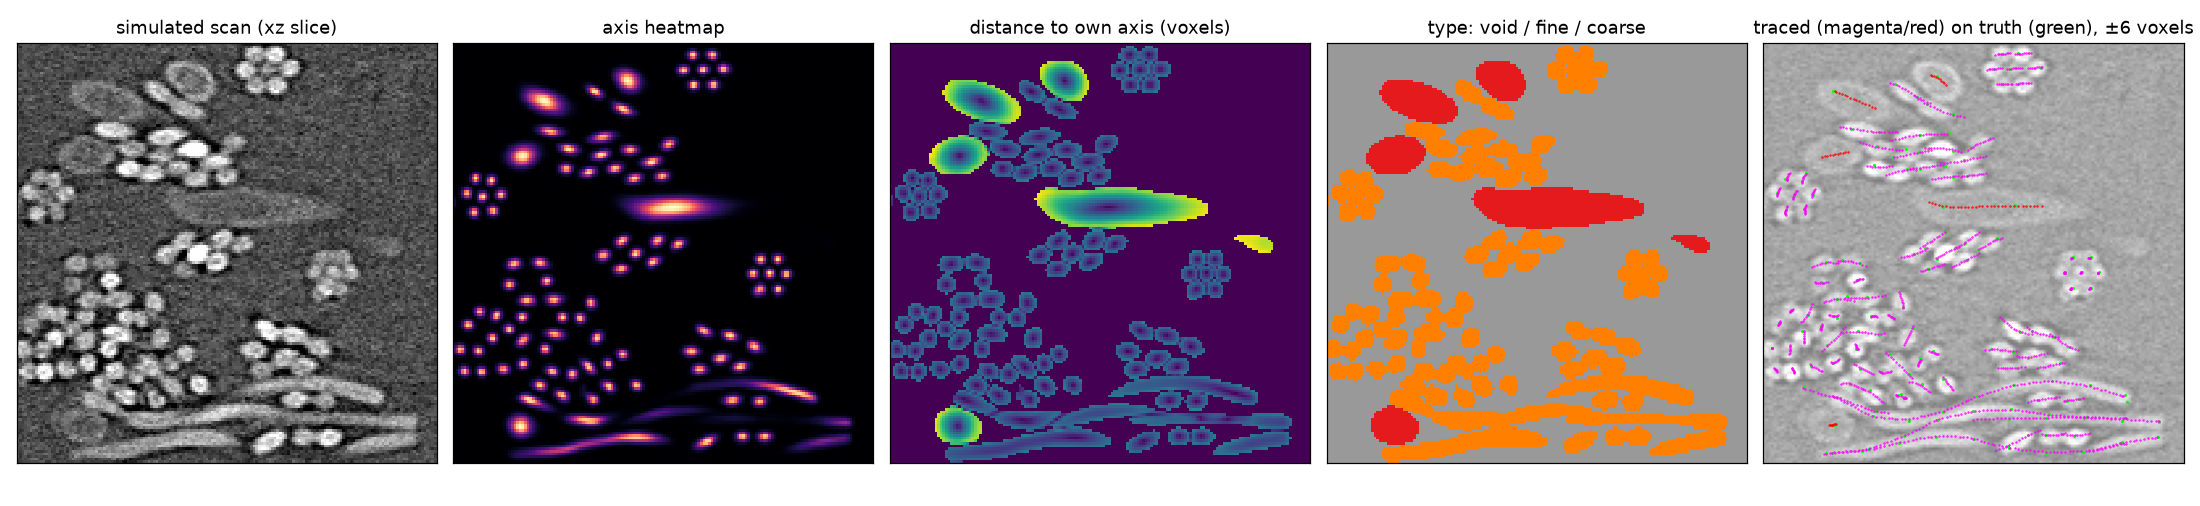
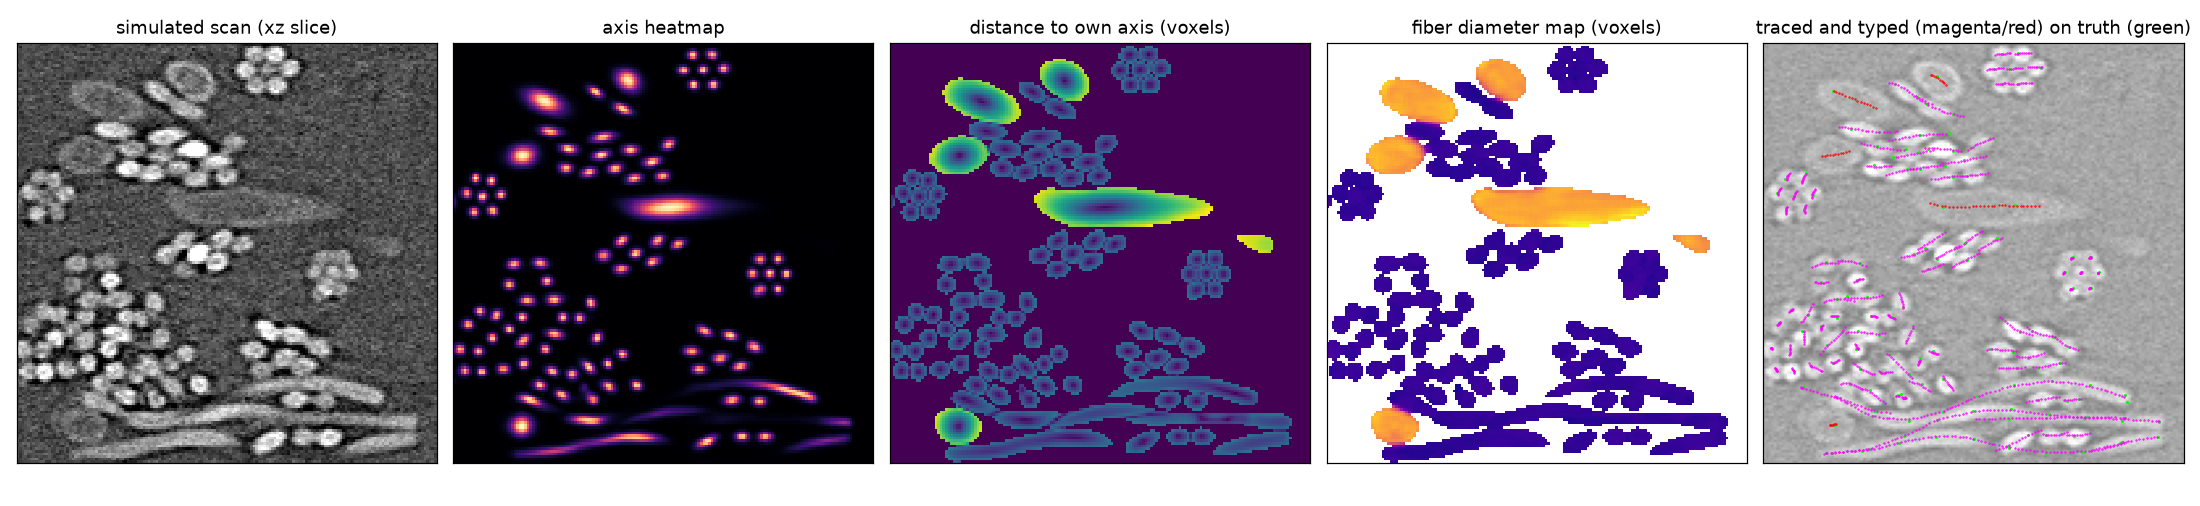
docs: CT map network guide for the general network (per-fiber types, radius, binder and bond points, size and bond hints, training sets); new maps figure

diff --git a/docs/ct_unet.md b/docs/ct_unet.md
@@ -14,8 +14,9 @@ matplotlib.
 ![One simulated scan, the network's maps and the traced fibers](media/ct-unet-maps.png)
 
 *A slice of `dense_hard_7` (never seen in training). From left: the simulated
-scan; the axis heatmap; each fiber voxel's distance to its own axis; the fiber
-type; the traced centerlines (magenta fine, red coarse) over the true ones.*
+scan; the axis heatmap; each fiber voxel's distance to its own axis; the
+predicted fiber diameter; the traced centerlines, typed per fiber (magenta
+fine, red coarse), over the true ones.*
 
 ## Results on the simulated sets
 
@@ -32,9 +33,21 @@ The network scans a 160³ volume in about a second and the tracer takes a few
 seconds on the CPU. On `scanned_101`-`108` the weakest case (0.88) is a scan
 whose fine fibers are under 4 voxels across.
 
+**The general network** (any number of fiber types, any sizes; the table above
+is the first, two-type network). It knows nothing about types: it finds fibers
+and their diameters, and types are assigned per fiber afterwards. On a held-out
+set of 24 `varied` scans (1-4 fiber types of 3.5-28 voxels, mixed bundles,
+planar to fully 3D) it scores **0.84** on the scans whose thinnest fibers are
+resolvable, given the fiber sizes, and types **94%** of the traced length right;
+on `dense_hard` and `scanned` it keeps 0.99 and 0.98. Told whether a scan is
+bonded, it finds binder bonds with an F1 of 0.42 (validation) and 0.27 (test),
+and none in bond-free scans; on perfect maps the same bond finder reaches
+0.72-0.98, so the network, not the finder, is the limit there (thin menisci
+under the blur are the hardest shape).
+
 ## What the network predicts
 
-For every voxel, 13 numbers:
+For every voxel, 14 numbers:
 
 1. **Axis heatmap:** a peak on every fiber centerline, exp(-d²/2s²) with d the
    distance to the nearest axis and s = max(1, 0.3 r). It is kept sharp on
@@ -45,11 +58,27 @@ For every voxel, 13 numbers:
    so the boundary between them is explicit even where the grey shows no gap.
 3. **Direction** (6): the fiber's tangent as the sign-free tensor t tᵀ, so a
    fiber pointing +x and one pointing -x read the same.
-4. **Type** (3): void, fine, coarse.
+4. **Fiber:** fiber or void.
+5. **Radius:** the radius of the voxel's own fiber (predicted as its log).
+6. **Binder:** binder or not (bridges, menisci, blobs and coatings).
+7. **Bond points:** a small peak (1.5 voxels) at the center of every bond.
 
-The network is a plain 3D U-Net: four 2x poolings (128³ down to 8³, 16 to 256
-channels), two 3x3x3 convolutions with group norm per level, skip connections,
-and a 1x1 head. It has 5.6 M weights. Training crops are 128³; any volume whose
+There is no type output: types are decided per fiber after tracing (below), so
+one network handles any number of fiber types.
+
+**Hints.** The network can be told what is known about the sample, through a
+small code that scales and shifts the features after every block (FiLM; it
+starts as a no-op, so a trained network can be extended with it): the fiber
+diameters (a soft histogram of their logs), and whether the scan is bonded (and
+the bond size relative to the fibers). Each hint is optional; training crops
+get it only part of the time (sizes jittered by ±10%), so the network works
+with or without.
+
+The network is a plain 3D U-Net: four 2x poolings (128³ down to 8³), two
+3x3x3 convolutions with group norm per level, skip connections, and a 1x1 head.
+The current one is 24 channels wide at the top (384 at the bottom), widened
+from a trained 16-wide one with `train.py --widen` (Net2Net: the wider copy
+starts with exactly the same maps). Training crops are 128³; any volume whose
 sides are divisible by 16 can be predicted in one go, and bigger ones in tiles.
 
 ## The tracer
@@ -59,18 +88,29 @@ sides are divisible by 16 can be predicted in one go, and bigger ones in tiles.
 1. **Votes:** every voxel the network calls fiber votes for its axis at voxel +
    offset. Votes are pooled in 1-voxel cells; a cell with enough votes is an
    axis point, carrying the mean position, the principal direction and the
-   majority type.
+   mean radius.
 2. **Tracking:** from the best-supported unused axis point, a track steps 1.5
    voxels at a time both ways along the direction, moving to the mean of the
    axis points ahead whose direction agrees (so a crossing fiber's points are
    ignored), coasting over short gaps and stopping where it runs onto a fiber
-   already traced. A track uses up the points around it (1.2 voxels for fine,
-   4 for coarse fibers).
+   already traced. A track uses up the points within max(1.2, r/2) of it, r
+   its own predicted radius.
 3. **Tidy** (optional, `tidy_up`): traces lying on top of a longer one for over
    half their length are dropped, and traces whose ends face each other across
    a short straight gap are joined. This barely changes F1 but brings the
    number of traces close to the number of fibers, which matters for a solve
    afterwards.
+
+**Types** ([`fiber_types.py`](../crates/tangle_python/python/examples/ct_unet/fiber_types.py)):
+each traced fiber's median diameter (and median axis grey) is known. With the
+fiber sizes known, each fiber gets the type whose diameter is nearest
+(`assign_by_size`); otherwise a Gaussian mixture on diameter and grey, with the
+number of types given or picked by BIC (`assign_types`).
+
+**Bonds** ([`bonds.py`](../crates/tangle_python/python/examples/ct_unet/bonds.py)):
+every bond-point peak, and every group of binder voxels, is given to the two
+traced fibers whose surfaces are nearest it; the two lists are merged. Binder
+touching one fiber only (a coating) is no bond.
 
 Whole scans are traced from overlapping tiles (`tiled_axis_points`: 128³ tiles
 every 64 voxels). Each voxel votes from the tile whose center it is nearest, so
@@ -81,18 +121,33 @@ whole volume, with no seams to stitch.
 ## Training data
 
 [`make_data.py`](../crates/tangle_python/python/examples/ct_unet/make_data.py)
-renders `ct_examples` structures with the `dense_hard` settings (packed bundles,
-flat oval coarse fibers, phase-contrast halos, per-fiber brightness) and, for
-variety, the `scanned` settings (voxel size, blur, orientation, fiber sizes), at
-indices well past the test sets, so `dense_hard_1`-`36` and `scanned_101`-`108`
-are never seen. About 600 volumes of 160³, ~8 s each. Each file stores the scan,
-the labels and, per voxel, the nearest true axis point, so the targets are
-cheap gathers at load time.
+renders Tangle structures with the synthetic scanner
+([ct_synthetic.md](ct_synthetic.md)), at indices well past the test sets, so
+`dense_hard_1`-`36` and `scanned_101`-`108` are never seen. Each file stores the
+scan, the labels and, per voxel, the nearest true axis point, so the targets
+are cheap gathers at load time. The sets:
+
+- **`dense_hard` and `scanned`** (~600 volumes of 160³): packed bundles, flat
+  oval coarse fibers, halos, per-fiber brightness; voxel size, blur,
+  orientation and fiber sizes varied.
+- **`varied`** (`--varied`, ~400): 1-4 fiber types of 3.5-28 voxels at least
+  30% apart in size, each with its own cross-section, brightness and bundling,
+  orientations from planar to fully 3D.
+- **focused** (indices from 4001, ~800): weighted toward what the first round
+  found hard: the thinnest fibers, bundles, 3D orientations; the blur never
+  exceeds the thinnest fiber, so every scan is resolvable.
+- **bonds** (from 5001, ~750): 65% of the scans have binder at fiber junctions
+  (Tangle's junction capture, bond size 0.3-1.5 fiber radii); from 7001 the
+  binder takes several shapes (bridge, meniscus, blob) and some fibers carry a
+  binder coating that bonds nothing.
 
 [`train.py`](../crates/tangle_python/python/examples/ct_unet/train.py): 128³
-random crops, xy swaps and flips in x, y and z (the fibers lie in planes, so no
-general rotations), grey-level jitter, AdamW with a one-cycle schedule, 12,000
-steps at batch 1 (about 5.5 hours on an Apple M5 Pro GPU).
+random crops (several data folders at once, a folder named twice counts twice),
+xy swaps and flips in x, y and z (the fibers mostly lie in planes, so no
+general rotations), grey-level jitter, AdamW with a one-cycle schedule, batch 1
+(12,000 steps is about 5.5 hours on an Apple M5 Pro GPU). `--init` starts from
+a trained network (outputs it lacks start near zero), `--widen` widens it, and
+`--condition` adds the hints.
 
 **Correlated noise.** CT reconstructions often have noise correlated over about
 a voxel, so the void looks blotchy; the simulated scans mostly have near-white
@@ -122,11 +177,13 @@ From `crates/tangle_python/python/examples/ct_unet/`, with `tangle` importable:
 
 ```sh
 python make_data.py DATA 1001 400                      # training scans (indices past the test sets)
+python make_data.py VARIED 4001 800 --varied           # varied fiber types and sizes (focused round)
 python make_data.py VAL 5000 16                        # validation scans
-python train.py DATA VAL RUN --steps 12000             # train (Apple GPU if present)
-python train.py DATA VAL RUN2 --steps 4000 --lr 1e-3 --noise 0.25 --init RUN/best.pt
-python score_trace.py RUN2/best.pt CACHE dense_hard_1 dense_hard_2 --tidy   # centerline F1 against the truth
-python check_diameters.py RUN2/best.pt CACHE dense_hard_7                    # diameters against the truth
+python train.py DATA,VARIED VAL RUN --steps 12000 --condition           # train (Apple GPU if present)
+python train.py DATA,VARIED VAL RUN2 --steps 4000 --lr 1e-3 --noise 0.25 --init RUN/best.pt
+python score_trace.py RUN2/best.pt CACHE dense_hard_1 dense_hard_2      # centerline F1 against the truth
+python score_trace.py RUN2/best.pt - VARIED_TEST/*.npz --known-sizes    # ... with the sizes as a hint
+python check_diameters.py RUN2/best.pt CACHE dense_hard_7               # diameters against the truth
 python make_figure.py RUN2/best.pt CACHE ct-unet-maps.png
 ```
 
@@ -135,16 +192,19 @@ writes them); use the same caches as the grey-fitter runs you compare with, so
 the scans are identical. In Python, for your own scan:
 
 ```python
-import torch
-from maps import UNet3D, levels, predict
+from maps import levels, load, predict
 from trace_maps import tiled_axis_points, track, tidy_up
+from fiber_types import assign_by_size
 
-model = UNet3D(16).to("mps"); model.load_state_dict(torch.load("best.pt", map_location="mps")["model"])
+model = load("best.pt", "mps")                  # any saved network
+sizes = [6.5, 15.0]                             # known fiber diameters (voxels), or None
 grey = levels(volume[::4, ::4, ::4])            # one grey scaling for the whole scan
-points = tiled_axis_points(lambda z, y, x: predict(model, volume[z:z+128, y:y+128, x:x+128], "mps", grey),
-                           volume.shape)
-lines, types = track(*points, shape=volume.shape, min_length=3 * fine_diameter_voxels)
-lines, types = tidy_up(lines, types, fine_radius_voxels, coarse_radius_voxels)
+points = tiled_axis_points(
+    lambda z, y, x: predict(model, volume[z:z+128, y:y+128, x:x+128], "mps", grey, diameters=sizes, bonds=False),
+    volume.shape)
+lines, radii = track(*points, shape=volume.shape, min_length=3 * min(sizes))
+lines, radii = tidy_up(lines, radii)
+types = assign_by_size(radii, sizes)
 ```
 
 ## Limits
@@ -152,7 +212,7 @@ lines, types = tidy_up(lines, types, fine_radius_voxels, coarse_radius_voxels)
 - Trained and tested on one simulator. On a scan whose noise, contrast or fiber
   sizes lie outside the training range, check the traces by eye before
   trusting them, and add training data that covers it.
-- The tracer's output is centerlines and a type, not a finished Tangle
+- The tracer's output is centerlines, radii and a type, not a finished Tangle
   assembly: run a Tangle solve on them for contacts and bend limits.
 - The grey-level check some pipelines apply after tracing (drop traces no
   brighter than the void) is a safety net, not part of the method.

diff --git a/README.md b/README.md
@@ -212,9 +212,11 @@ See [solver and architecture notes](docs/architecture.md) for details.
   ![Scanner settings side by side](docs/media/ct-synth-settings.png)
 - **CT map network:** a 3D U-Net trained on Tangle's own simulated scans turns
   a scan into maps (each voxel's offset to its fiber's axis, the fiber
-  direction and type), and a short tracer reads the fibers off them. On the
-  simulated `dense_hard` sets it traces 99.5% centerline F1, against 91.5% for
-  the grey fitter, and whole scans run in overlapping tiles. See the
+  direction and diameter, binder), and a short tracer reads the fibers off
+  them; types are assigned per fiber, so any number of fiber types works, and
+  the known fiber sizes and whether the sample is bonded can be given as hints.
+  On the simulated `dense_hard` sets it traces 99.5% centerline F1, against
+  91.5% for the grey fitter, and whole scans run in overlapping tiles. See the
   [CT map network guide](docs/ct_unet.md).
 
   ![Simulated scan, network maps and traced fibers](docs/media/ct-unet-maps.png)
